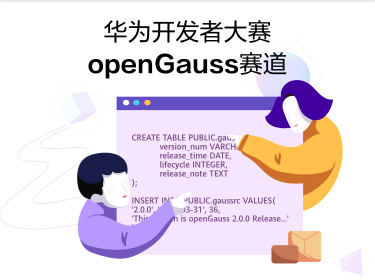
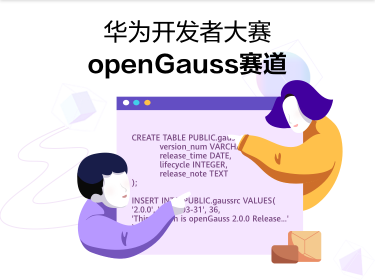
style update

Changed region(s): [[0.6453, 0.1714, 0.7627, 0.2857]]

diff --git a/themes/project/layouts/partials/banner.html b/themes/project/layouts/partials/banner.html
@@ -17,18 +17,21 @@
                         </div>
                 </div>
                 {{ else }}
-                {{ if .Params.title1 }}
-                <h2 class="hdc-2021-banner">{{ .Params.title1}} <br> {{ .Params.title2 }}</h2>
-                {{ end }}
-                <a class="banner-img" href="{{ .Params.link }}" >
-                    <img loading="lazy" class="banner-pc" src="{{ .Site.BaseURL}}{{ .Params.bgUrl }}">
-                    <img loading="lazy" class="banner-mobile" src="{{ .Site.BaseURL}}{{ .Params.mobileUrl }}" alt="">
-                    {{ if .Params.reviewBtn}}
-                    <button type="button" class="btn btn-primary review" >{{ i18n "banner_review" }}</button>
+                {{ if .Params.tag }}
+                    <a class="banner-img img-center" href="{{ .Params.link }}" >
+                        <img loading="lazy" class="banner-pc" src="{{ .Site.BaseURL}}{{ .Params.bgUrl }}">
+                        <img loading="lazy" class="banner-mobile" src="{{ .Site.BaseURL}}{{ .Params.mobileUrl }}" alt="">
+                    </a>
+                    {{ else }}
+                    <a class="banner-img" href="{{ .Params.link }}" >
+                        <img loading="lazy" class="banner-pc" src="{{ .Site.BaseURL}}{{ .Params.bgUrl }}">
+                        <img loading="lazy" class="banner-mobile" src="{{ .Site.BaseURL}}{{ .Params.mobileUrl }}" alt="">
+                        {{ if .Params.reviewBtn}}
+                        <button type="button" class="btn btn-primary review" >{{ i18n "banner_review" }}</button>
+                        {{ end }}
+                    </a>
                     {{ end }}
-                </a>
                 {{ end }}
-
             </div>
             {{ end }}
         </div>

diff --git a/themes/project/static/css/home.css b/themes/project/static/css/home.css
@@ -91,15 +91,6 @@ body {
     line-height: 32px;
     text-decoration: none;
 }
-.hdc-2021-banner {
-    position: absolute;
-    left: 28%;
-    transform: translateX(-50%);
-    top: 172px;
-    font-weight: normal;
-    font-size: 40px;
-    line-height: 64px;
-}
 .review{
     border-radius: 5px;
     width:100px;
@@ -121,7 +112,10 @@ body {
     height: 100%;
     margin: 0 auto;
 }
-
+.banner .banner-img.img-center {
+    width: 1170px;
+    margin: 0 auto;
+}
 .banner .banner_btn a:nth-child(2) {
     margin-left: 30px;
 }
@@ -158,9 +152,6 @@ body {
     }
     .banner-mobile {
         display: block;
-    }
-    .hdc-2021-banner {
-        display: none;
     }
 }
 

diff --git a/themes/project/static/css/minisite.css b/themes/project/static/css/minisite.css
@@ -1,12 +1,8 @@
 .hdc-banner {
-    position: absolute;
-    left: 0;
     width: 100%;
     height: 465px;
-    overflow: hidden;
     background: url("/img/breadcrumbs/minisite_bg.png");
     background-size: 100% 100%;
-    z-index: -1;
 }
 .hdc-banner h2 {
     font-size: 40px;
@@ -14,9 +10,6 @@
     width: 1170px;
     margin: 172px auto 0;
     line-height: 64px;
-}
-#hdc-2021 {
-    margin-top: 469px;
 }
 #hdc-2021 h1 {
     text-align: center;
@@ -61,7 +54,6 @@
         display: none;
     }
     #hdc-2021 {
-        margin-top: 340px;
         padding: 0 15px;
     }
     .channel {

diff --git a/themes/project/layouts/partials/minisite_2021.html b/themes/project/layouts/partials/minisite_2021.html
@@ -6,7 +6,7 @@
   <body>
 
   <div class="hdc-banner">
-      <h2>{{ .Params.title1}} <br> {{ .Params.title2 }}</h2>
+<!--      <h2>{{ .Params.title1}} <br> {{ .Params.title2 }}</h2>-->
   </div>
 
   <div id="hdc-2021">

diff --git a/content/zh/banner/4.md b/content/zh/banner/4.md
@@ -1,6 +1,5 @@
 +++
-title1 = "华为开发者大赛·"
-title2 = "openGauss赛道"
+tag = "center"
 bgUrl = "img/breadcrumbs/minisite_bg.png"
 link = "/zh/events/hdc.2021.developer.html"
 mobileUrl = "img/breadcrumbs/minisite_mo.png"
